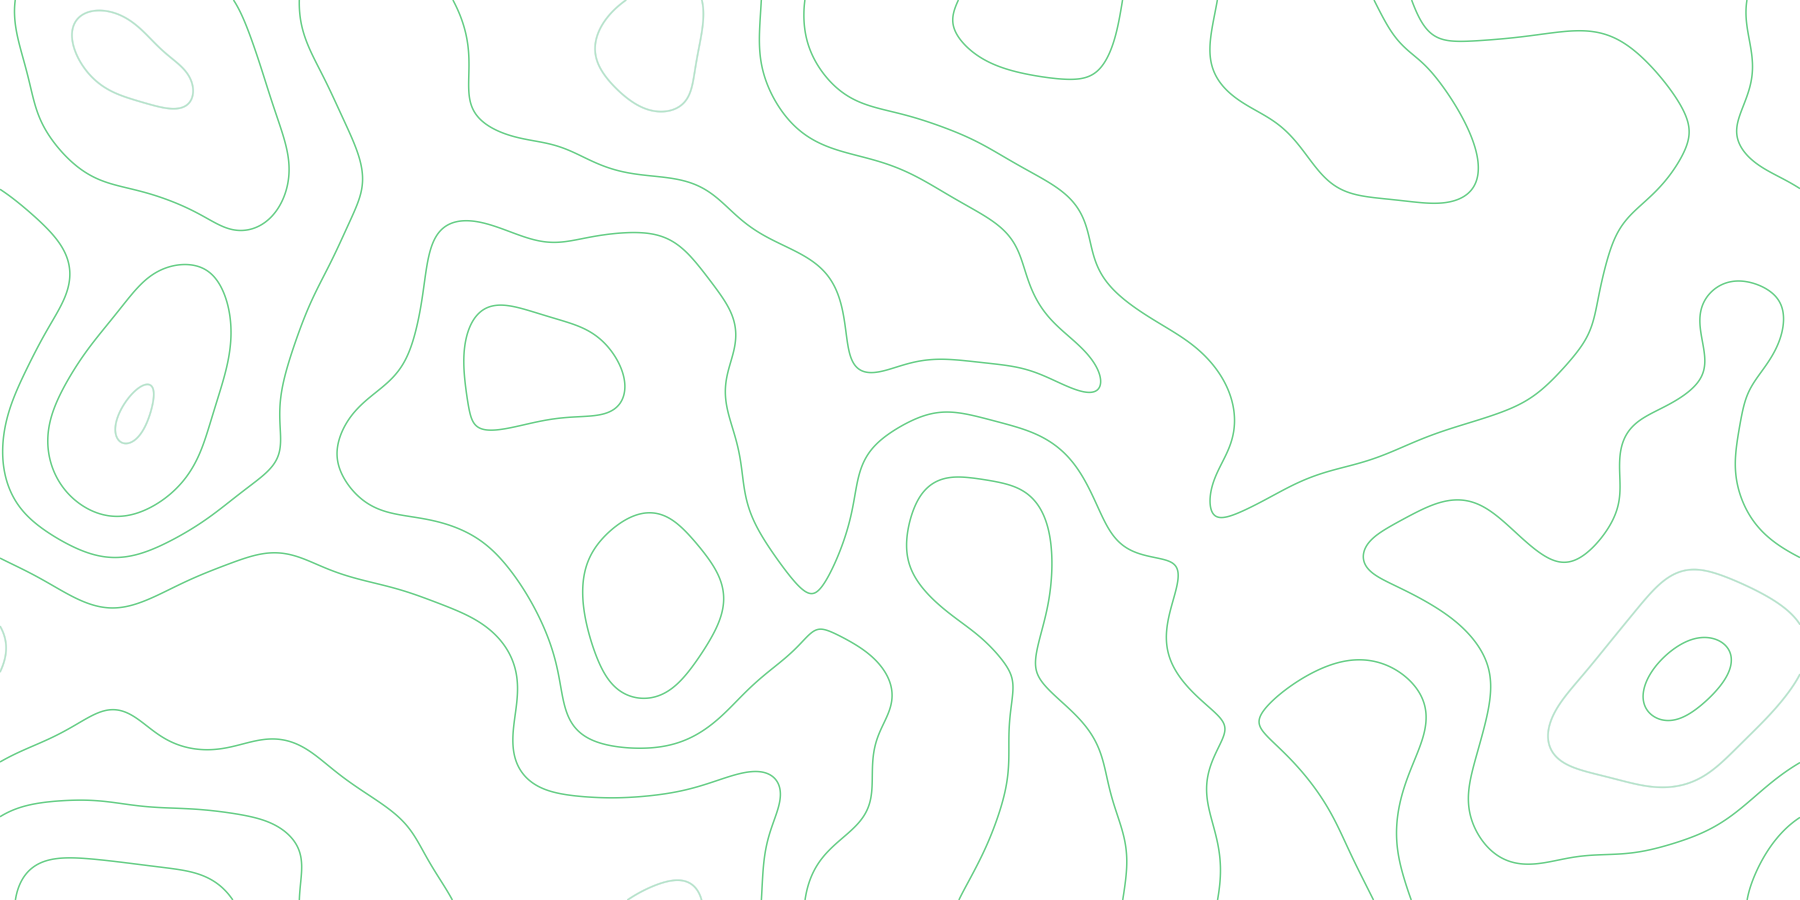
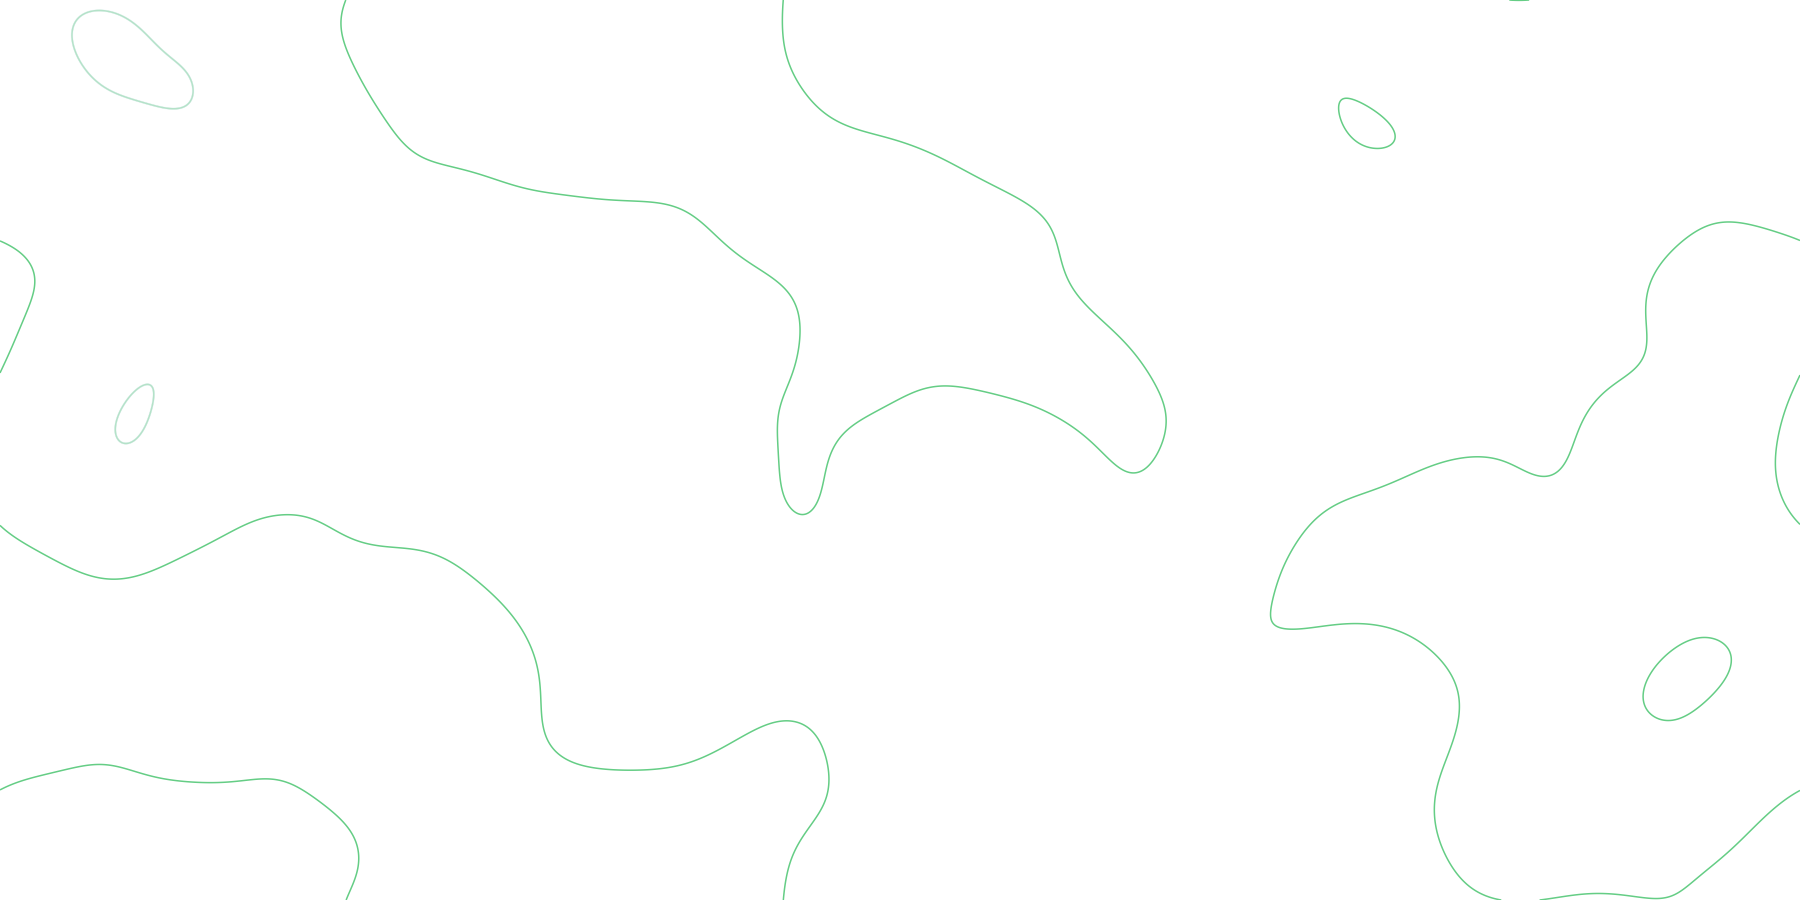
Topographic ground: fewer contour lines (3 levels), restore brightness
The last change lowered opacity, but the ask was less terrain. Revert the
strength to 0.10/0.13 and instead halve the line count again: 3 contour
levels, leaving only a few big flowing rings.

Claude-Session: https://claude.ai/code/session_01Rykm1PRspyG3mLbsfLyocH

diff --git a/webgui/frontend/src/styles.css b/webgui/frontend/src/styles.css
@@ -13,7 +13,7 @@
   --input-bg:#0c0e12; --log-bg:#0a0c10; --log-fg:#d7dde7;
   /* Topographic ground — a real contour map (brand-green minor lines with white
      index contours) painted behind the console, prominent but panel-friendly. */
-  --topo-img:url("/brand-topo-dark.png"); --topo-op:0.05;
+  --topo-img:url("/brand-topo-dark.png"); --topo-op:0.10;
 }
 /* Light mode: same brand accents on a bright ground (logs go light too). */
 :root[data-theme="light"]{
@@ -26,7 +26,7 @@
   --input-bg:#ffffff; --log-bg:#f6f8fb; --log-fg:#1c2430;
   /* On the bright ground white index lines vanish — swap to the light overlay
      (green minor lines with blue index contours) and dial it back to a watermark. */
-  --topo-img:url("/brand-topo-light.png"); --topo-op:0.065;
+  --topo-img:url("/brand-topo-light.png"); --topo-op:0.13;
 }
 :root[data-theme="light"] body::after{opacity:0.5}
 :root[data-theme="light"] button.primary{color:#fff}

diff --git a/webgui/static/index.html b/webgui/static/index.html
@@ -23,7 +23,7 @@
   /* Sysible topographic ground — a bold brand-green contour map with white index
      lines, matching the Controller console. */
   body::before{content:"";position:fixed;inset:0;z-index:-2;pointer-events:none;
-    background:url("/static/brand-topo-dark.png") center / cover no-repeat;opacity:0.05}
+    background:url("/static/brand-topo-dark.png") center / cover no-repeat;opacity:0.10}
   body::after{content:"";position:fixed;inset:0;z-index:-1;pointer-events:none;
     background:radial-gradient(85% 60% at 12% -8%, rgba(70,177,100,0.16), transparent 55%),
               radial-gradient(80% 70% at 100% 112%, rgba(45,138,118,0.13), transparent 55%)}
